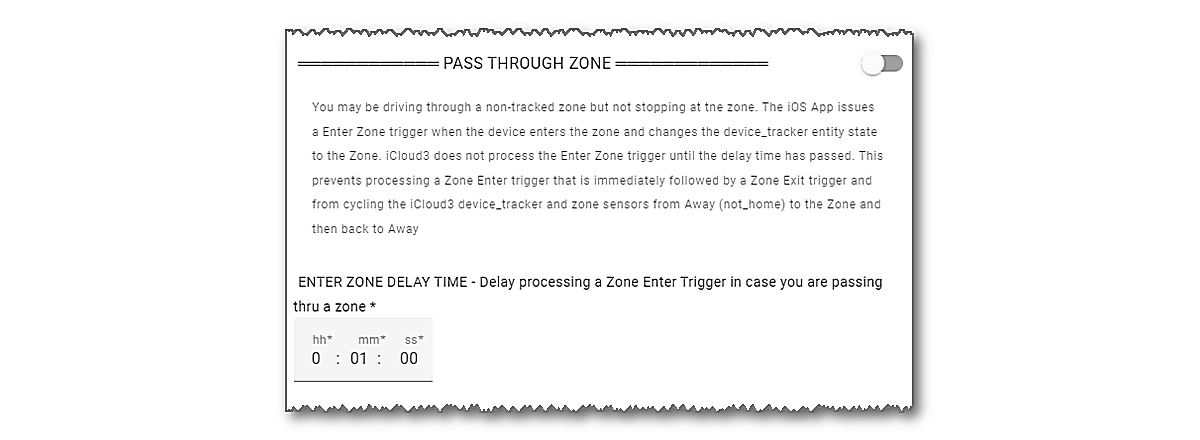
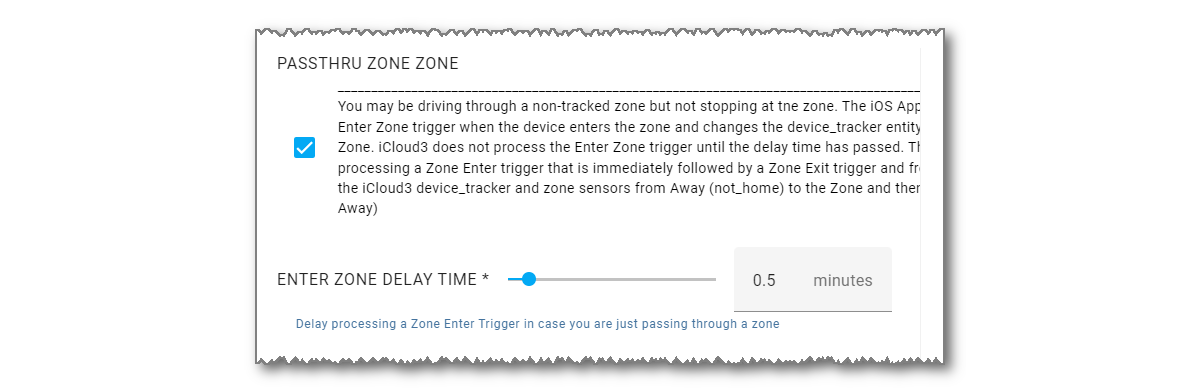
v3.0 Documentation

diff --git a/docs/chapters/3.0-config-parms.md b/docs/chapters/3.0-config-parms.md
@@ -3,31 +3,55 @@
 Configuration parameters for HA components are set up on the *HA Settings > Devices & Settings > Integrations > iCloud3 Configuration* screen previously discussed. 
 
 1. Select **☰  HA Settings > Devices & Services > Integrations**
-2. Select **iCloud3 > Configure**
+2. Select **iCloud3 > Configure**.
 
-![](../images/cf-configurator.png)
+![](../images/cf-configure.png)
 
-3. Select **Configure** to open the menu screen on the left below.
+3. Selecting **Configure** will open the *iCloud3 Configuration Wizard* menu screen on the left.
 
 ![](../images/cf-menu-1-2-sbs.png)
 
 
 
-The parameters are grouped into categories and updated on various screens introduced in the *Configuring iCloud3 with The Configurator* chapter earlier. 
+The parameters are grouped into categories and updated on various screens introduced in the *Configuring iCloud3 with The Configurator* chapter earlier. The 10-menu screens and their secondary screens are described below.  
 
-- **iCloud Account & Location Data Source** - Enter your iCloud account username/password and indicate where the location data comes from.
-- **iCloud3 Devices** - Set up and configure the devices you want to track or monitor.
+- **iCloud Account Login Credentials** - Enter your iCloud account username/password and indicate where the location data comes from.
+
+  - **Login** - Log into the iCloud account with a new username/password or with one that was changed.
+  - **Enter Verification Code** - Enter the 6-digit verification code received from Apple.
+  - **Reset and Reauthenticate Account** - Delete all *cookies* and iCloud Account *Session* tokens and authentication data. This will request a new verification code from Apple
+
+- **iCloud3 Devices** - Lists the devices that have been added to iCloud3.
+
+  - **Update Device** - Displays the Update Tracked iCloud3 Device screen that is used to change parameters on an existing device.
+  - **Add Device** - Add a new device to be tracked or monitored to iCloud3
+  - **Delete Device(s)** - Delete a device or all devices from the iCloud3 device list. The Family Sharing, Find-my-Friends and iOS App assignment for all devices can also be cleared.
+  - **Change Device Order** - The order the devices are tracked and displayed on the Event Log is the order they were added to iCloud3. This can be changed on this screen.
+
 - **Sensors** - Over 25 sensors can be updated with device information, more if you are tracking from multiple zones. This screen lets you select the sensors you want to use.
-- **Display Text As** - The Event Log can show information related to a device that you may want to hide (email addresses, phone numbers, etc.). This screen lets you specify a *display_as* text that will replace the real text (*gary@email.com* instead of the real email address, *garyinfl987@aol.com*).
+
+  - **Exclude Sensors** - A  sensor for all devices are created and updated by iCloud3 (example: *sensor.[devicename]_battery_status*). This screen lets you specify a sensor that should not be created and updated for a specific device (example(*sensor.lillian_watch_battery_status')*
+
+- **Format Settings** - Specifies how information should be displayed on device_tracker and sensor entities and on the Event Log (zone names, times, unit of measure, etc.)
+
 - **Action Commands** - Commands that let you control iCloud3 operations (Restart, Pause Tracking, Resume or Restart Tracking, Enter Apple Verification Code, Reset iCloud Interface, etc.). These commands are also found on the Event Log custom card.
-- **Event Log Configuration** - Specifies how information should be displayed on the Event Log (zone names, times, unit of measure)
+
+- **Display Text As** - The Event Log can show information related to a device that you may want to hide (email addresses, phone numbers, etc.). This screen lets you specify a *display_as* text that will replace the real text (*gary@email.com* instead of the real email address, *garyinfl987@aol.com*).
+
 - **Waze Route Distance & Time, Waze History Database** - Waze can be used to provide travel time and distance information to a tracked zone. The results can also be saved in a database. This screen is used to configure how Waze should operate.
-- **inZone Intervals** - Different types of devices can have different polling intervals (time between location requests) when they are in a zone. You may want a Watch to have a short interval since it can not use the iOS App for zone enter/exit triggers and an iPhone to have a long interval since it can use the iOS App. The default interval times for the different devices are set up on this screen. 
+
+  - **Lovelace Map Card with Waze History Database Locations** - Shows the lgps ocations  in the Waze History Database
+
+- **inZone Default Intervals** - Different types of devices can have different polling intervals (time between location requests) when they are in a zone. You may want a Watch to have a short interval since it can not use the iOS App for zone enter/exit triggers and an iPhone to have a long interval since it can use the iOS App. The default interval times for the different devices are set up on this screen. 
+
+  This is only used when a device is added. Afterwards, the interval for a specific device can be changed on the Update Devices screen.
+
 - **Special Zones** - There are two types of special zones that are set up on this screen.
   - *Pass Through Zone* - A Zone Enter trigger delay to prevent entering a zone when you are just passing through it.
-  - *Stationary Zone* - A special zone created by iCloud3 when you are at the same location for an extended period of time (friend's house, doctors ofice, work, store, etc).
+  - *Stationary Zone* - A special zone created by iCloud3 when you are at the same location for an extended period of time (friend's house, doctors office, work, store, etc).
+  - *Primary Base Zone = Home* - Normally, the Home zone is used as the base location for all tracking (travel time, distance, etc.). However, a different zone can be used as the base location if you are away from Home for an extended period or the device is normally at another location (vacation house, second house, etc.) This is a global setting that overrides the Base Zone assigned to each device.
 
-- **Other parameters** - General parameters that do not fall into the other categories that you will probably never change.
+- **Tracking & Other Parameters** - Parameters that are used when tracking a device (gps accuracy, old location thresholds, maximum intervals, etc) are specified here. These parameters are usually set up once and rarely changed.
 
 
 
@@ -46,7 +70,22 @@ Notes:
 - **Password** - This is stored in the configuration file in an encrypted format. 
 - **Username & Password** - These fields are obscured on this screen. Select *Show/Hide username/password* to and select *Submit* to display them.
 
-  
+
+-----
+
+### Enter Verification Code
+
+This screen is used to enter the 6-digit verification code received from Apple. 
+
+![](../images/auth-process-3-code-entry.png)
+
+-----
+
+### Apple Account Reauthentication Process
+
+Periodically (every 3-months or so), Apple require a reauthentication to continue using the iCloud account for location information. This is highlighted in the following screens.
+
+![](../images/auth-process-evlog.png)
 
 ------
 
@@ -61,7 +100,31 @@ This screen is used to:
 
 ![](../images/cf-device-list.png)
 
+-----
 
+### Add Device
+
+This screen is used to add a new device to iCloud3.
+
+![](../images/cf-device-add.png)
+
+-----
+
+### Delete Device
+
+This screen is used to delete a specific device, delete all devices or clear the Family sharing, Find-my-Friends and iOS App device assignment fields.
+
+![](../images/cf-device-delete.png)
+
+-----
+
+
+
+### Change Device Order screen
+
+The order the devices are tracked and displayed on the Event Log is the order they were added to iCloud3. This can be changed on this screen.
+
+![](../images/cf-device-change-order.png)
 
 ------
 
@@ -81,9 +144,9 @@ Notes:
 
 - **Picture** - Image files (png, jpg and jpeg) in the *config/www/* and *config/www/icloud3/* (or *config/www/[your_event_log_card_directory]/*) directories are listed.
 - **Tracking Mode** - specifies how the device should be handled.
-  - *Track* - Full tracking, iCloud3 requests it's location.
-  - *Monitor* - Report the devices location or battery status using data provided when a tracked device is updated
-  - *Inactive* - Not tracked or monitored. The device's parameters are kept but it's device_tracker entity and sensors are not created.
+  - **Track** - Full tracking, iCloud3 requests it's location.
+  - **Monitor** - Report the devices location or battery status using data provided when a tracked device is updated
+  - **Inactive** - Not tracked or monitored. The device's parameters are kept but it's device_tracker entity and sensors are not created.
 
 
 
@@ -119,24 +182,25 @@ Notes:
 
 - **Home Assistant History** - Sensors with a lot of text or dates are automatically excluded from the Home Assistant history. This includes _info, _last_update, _next_update, _last_located, _trigger, _zone_date_time, _last_zone, _last_zone_fname, _last_zone_name, icloud3_event_log, icloud3_wazehist_map.
 
-  
+
+-----
+
+### Exclude Sensors screen
+
+![](../images/cf-sensors-exclude.png)
 
 ------
 
-### Display Text-as
+### Format Settings screen
 
-There may be text fields (account numbers, email addresses, etc) that should be considered private and not displayed on the Event Log or in the Event Log report. 
+The *Event Log* shows the activity associated with tracking a device. This is used to:
 
-This screen is used to:
-- Specify the actual text and the text that should be displayed instead.
+- Configure various display fields (time, distance).
+- Specify how zone names should be displayed.
 
-  ![](../images/cf-display-as.png)
+![](../images/cf-format-settings.png)
 
-Notes:
 
-- Ten display_as text fields are available.
-
-  
 
 ------
 
@@ -154,23 +218,23 @@ Action commands can be selected on the *Event Log > Actions* drop down list that
 
 
 
-------
+-----
 
-### Event Log Configuration
+### Display Text-as
 
-The *Event Log* shows the activity associated with tracking a device. This is used to:
+There may be text fields (account numbers, email addresses, etc) that should be considered private and not displayed on the Event Log or in the Event Log report. 
 
-- Configure various display fields (time, distance).
-- Specify how zone names should be displayed.
-- Specify the directory containing the *icloud3-event-log-card.js* file (default is *config/www/icloud3*). 
+This screen is used to:
 
-![](../images/cf-evlog-config.png)
+- Specify the actual text and the text that should be displayed instead.
+
+  ![](../images/cf-display-as.png)
 
 Notes:
 
-- **iCloud Event Log Card Lovelace Resources Directory**- The Event Log Card File (*icloud3-event-log-card.js*) file is stored in this directory (default: *www/icloud3*). When iCloud3 starts, the Event Log file version is verified and updated if a new version is available. To use a different directory, create it, then select it from the list of available directories and restart iCloud3. The Home Assistant Lovelace Resource entry is automatically updated.
+- Ten display_as text fields are available.
 
-
+  
 
 ------
 
@@ -187,13 +251,13 @@ This screen is used to:
 
 ![](../images/cf-waze.png)
 
+-----
 
+### Waze Location Map Display
 
-Notes:
+![](../images/wazehist-map-card-setup.png)
 
-- **Waze Location Map Display** - This is described in the *Other Features* chapter.
-
-
+![](../images/wazehist-map-dots-only.png)
 
 ------
 
@@ -234,9 +298,13 @@ A Stationary Zone is a zone that is created when the device has been in the same
 
 
 
+**Primary Base Zone**
+
+![](../images/cf-special-zones-primary-base-zone.png)
+
 ------
 
-### Other Parameters
+### Tracking & Other Parameters
 
 This screen is used to configure other parameters that do not belong on the previous screens.
 
@@ -245,6 +313,6 @@ This screen is used to configure other parameters that do not belong on the prev
 Notes:
 
 - **Log Level** - Several levels of logging are available to help provide information when trying to identify a problem. Records are added to the HA Log file (*config/home-assistant.log*). This is explained further in the *Trouble Shooting Problems* chapter.
-  - *Debug* - Basic information.
-  - *RawData* - Actual data values used when zones and devices are set up, the actual data received from iCloud Location Services after  requesting a location or authenticating an account and the actual data being monitored from the iOS App.
+  - **Debug** - Basic information.
+  - **RawData** - Actual data values used when zones and devices are set up, the actual data received from iCloud Location Services after  requesting a location or authenticating an account and the actual data being monitored from the iOS App.
 

diff --git a/docs/chapters/2.0-installing-and-configuring.md b/docs/chapters/2.0-installing-and-configuring.md
@@ -63,13 +63,13 @@ The iCloud3 parameters need to be reviewed to verify the migration was performed
 Open *The Configuration Wizard*:
 
 1. Select **☰ > HA  Settings > Devices & Services > Integrations** if the Integrations screen is not already displayed.
-2. Select **iCloud3 > Configure** as shown below.
+2. Select **iCloud3 > Configure**.
 
 ![](../images/cf-configure.png)
 
-		3. The Menu screen is displayed.
+		3. Selecting **Configure** will open the *iCloud3 Configuration Wizard* menu screen on the left.
 
-![](../images/cf-menu-1.png)
+![](../images/cf-menu-1-2-sbs.png)
 
 There are 10-parameter screens on 2-menu pages that are used to display and update the parameters. The name of the screens are displayed at the top, the Action to be performed is displayed at the bottom. All update screens follow this same format.
 
@@ -133,11 +133,11 @@ Notes:
 
 1. The *Tracking Mode* field describes how the device will be tracked: 
 
-   - *Track* - Request the location and track the device,
+   - **Track** - Request the location and track the device,
 
-   - *Monitor* - Do not request the location. Report it's location when it is requrned from an iCloud location request for another device.
+   - **Monitor** - Do not request the location. Report it's location when it is requrned from an iCloud location request for another device.
 
-   - *Inactive* - Not tracked or monitored. This option keeps the device's parameters in the the configuration file but does not track it. 
+   - **Inactive** - Not tracked or monitored. This option keeps the device's parameters in the the configuration file but does not track it. 
 
 
 
@@ -192,8 +192,8 @@ Review the other screens just to see what is configurable. Nothing has to be don
 
 The following tracking screens show the current status for Gary's iPhone (*gary_iphone*).
 
--  Left Side - Shows the device_tracker and various sensor entities for the two devices showing the distance and travel time from Home, the interval between location requests and when the next request will be made, the battery level, and when it was last located.
-- Right Side - The Event Log for Gary while traveling towards home.
+-  **Left Side** - Shows the device_tracker and various sensor entities for the two devices showing the distance and travel time from Home, the interval between location requests and when the next request will be made, the battery level, and when it was last located.
+- **Right Side** - The Event Log for Gary while traveling towards home.
 
 The steps for adding this to the Lovelace dashboard are below, followed by the yaml code that created them. You will obviously need to change the entity names of *gary_iphone* to your phone in the yaml code.
 

diff --git a/docs/chapters/0.1-migrating-v2.4-to-v3.0.md b/docs/chapters/0.1-migrating-v2.4-to-v3.0.md
@@ -72,13 +72,13 @@ The iCloud3 parameters need to be reviewed to verify the migration was performed
 Open *The Configuration Wizard*:
 
 1. Select **☰ > HA  Settings > Devices & Services > Integrations** if the Integrations screen is not already displayed.
-2. Select **iCloud3 > Configure** as shown below.
+2. Select **iCloud3 > Configure**.
 
 ![](../images/cf-configure.png)
 
-		3. The Menu screen is displayed.
+		3. Selecting **Configure** will open the *iCloud3 Configuration Wizard* menu screen on the left.
 
-![](../images/cf-menu-1.png)
+![](../images/cf-menu-1-2-sbs.png)
 
 4. There are 10-parameter screens on 2-menu pages that are used to display and update the parameters. The name of the screens are displayed at the top, the Action to be performed is displayed at the bottom. All update screens follow this same format.
    - Select screen to be displayed from the list at the top, select *Select* at the bottom, then select **Next**.
